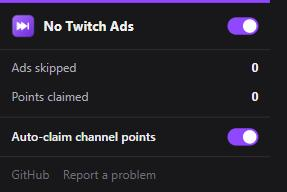
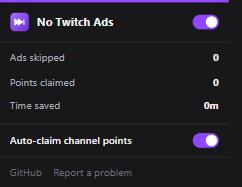
Add leak detection and lifetime stats (v1.0.2)
- Leak detection: the worker checks the final playlist for an ad segment that
  would actually play (a non-",live" segment not blanked), warns in the console
  and counts it, so a future Twitch change can't fail silently. Unit-tested:
  clean and blanked playlists report no leak; a raw ad playlist does.
- Fail-safe playback: if processM3U8 throws, the original playlist is served so
  the stream keeps running instead of hanging.
- Lifetime stats in storage.local (ads skipped, points claimed, time saved,
  blanked/leak counts), shown as three counters in the popup, across tabs.
- No recovery watchdog added: measured live, the player returns to Playing
  about a second after a break ends, so a second watchdog would be redundant.
- Regenerated popup screenshot; README and CHANGELOG updated.

diff --git a/src/page.js b/src/page.js
@@ -355,6 +355,7 @@
       streamInfo.LastPlayerReload = Date.now();
     }
     const haveAdTags = textStr.includes(AdSignifier) || SimulatedAdsDepth > 0;
+    let adLeaked = false;
     if (haveAdTags) {
       streamInfo.IsMidroll = textStr.includes('"MIDROLL"') || textStr.includes('"midroll"');
       if (!streamInfo.IsShowingAd) {
@@ -476,6 +477,15 @@
       if (IsAdStrippingEnabled || stripHevc) {
         textStr = stripAdSegments(textStr, stripHevc, streamInfo);
       }
+      // Leak check: is a real ad segment about to reach the player? A leaked
+      // segment is a non-",live" #EXTINF whose URL was NOT blanked (not in the
+      // ad-segment cache). With a clean backup there are none; when blanking,
+      // all are cached. Anything left means an ad would actually play.
+      adLeaked = hasUnblankedAdSegment(textStr);
+      if (adLeaked && !streamInfo.LeakReported) {
+        streamInfo.LeakReported = true;
+        console.warn("[No Twitch Ads] ad segment leaked to the player on " + streamInfo.ChannelName + " — backups and stripping did not cover this break");
+      }
     } else if (streamInfo.IsShowingAd) {
       console.log("[No Twitch Ads] ad break over");
       const wasStrippingAdSegments = streamInfo.IsStrippingAdSegments;
@@ -483,6 +493,7 @@
       streamInfo.IsStrippingAdSegments = false;
       streamInfo.NumStrippedAdSegments = 0;
       streamInfo.ActiveBackupPlayerType = null;
+      streamInfo.LeakReported = false;
       if (streamInfo.IsUsingModifiedM3U8 || ReloadPlayerAfterAd || wasStrippingAdSegments) {
         streamInfo.IsUsingModifiedM3U8 = false;
         streamInfo.LastPlayerReload = Date.now();
@@ -498,8 +509,22 @@
       isStrippingAdSegments: streamInfo.IsStrippingAdSegments,
       numStrippedAdSegments: streamInfo.NumStrippedAdSegments,
       backupPlayerType: streamInfo.ActiveBackupPlayerType,
+      leaked: adLeaked,
     });
     return textStr;
+  }
+
+  // True if the playlist still contains an ad segment that would actually play:
+  // a non-",live" #EXTINF whose segment URL is not in the blanked-segment cache.
+  function hasUnblankedAdSegment(textStr) {
+    const lines = textStr.replaceAll("\r", "").split("\n");
+    for (let i = 0; i < lines.length - 1; i++) {
+      if (lines[i].startsWith("#EXTINF") && !lines[i].includes(",live")) {
+        const seg = lines[i + 1];
+        if (seg && !seg.startsWith("#") && !AdSegmentCache.has(seg)) return true;
+      }
+    }
+    return false;
   }
 
   function hookWorkerFetch() {
@@ -700,6 +725,7 @@
     replaceServerTimeInM3u8,
     stripAdSegments,
     getStreamUrlForResolution,
+    hasUnblankedAdSegment,
     gqlRequest,
     getAccessToken,
     processM3U8,
@@ -1125,6 +1151,7 @@
       stripping: !!data.isStrippingAdSegments,
       midroll: !!data.isMidroll,
       backup: data.backupPlayerType || null,
+      leaked: !!data.leaked,
       channel: getChannelFromUrl(),
     };
     if (JSON.stringify(status) !== JSON.stringify(lastStatus)) dispatchStatus(status);
@@ -1253,7 +1280,7 @@
     // backup session at that depth (1 = embed, 2 = popout, 3 = 360p). 0 = off.
     simulateAds: (depth) => postTwitchWorkerMessage("SimulateAds", Math.max(0, depth | 0)),
     allSegmentsAreAdSegments: () => postTwitchWorkerMessage("AllSegmentsAreAdSegments"),
-    _internal: { declareOptions, parseAttributes, getServerTimeFromM3u8, replaceServerTimeInM3u8, stripAdSegments, getStreamUrlForResolution, processM3U8, buildWorkerPrelude, getChannelFromUrl },
+    _internal: { declareOptions, parseAttributes, getServerTimeFromM3u8, replaceServerTimeInM3u8, stripAdSegments, getStreamUrlForResolution, hasUnblankedAdSegment, processM3U8, buildWorkerPrelude, getChannelFromUrl },
   };
 
   hookWindowWorker();

diff --git a/src/content.js b/src/content.js
@@ -21,6 +21,40 @@
   let pointsClaimed = 0;
 
   // ---------------------------------------------------------------
+  // Lifetime stats (persisted in storage.local; read by the popup).
+  //   adsSkipped   - ad breaks skipped
+  //   pointsClaimed- channel-point bonuses auto-claimed
+  //   timeSavedMs  - summed break durations (ad time you did not watch)
+  //   blanked      - breaks where every backup had the ad, so segments blanked
+  //   leaks        - breaks where a real ad segment reached the player
+  // ---------------------------------------------------------------
+  const STATS_DEFAULTS = { adsSkipped: 0, pointsClaimed: 0, timeSavedMs: 0, blanked: 0, leaks: 0 };
+  const stats = { ...STATS_DEFAULTS };
+  let statsLoaded = false;
+  let statsSaveTimer = null;
+  let breakStart = 0;
+  let breakWasBlanked = false;
+  let breakWasLeaked = false;
+
+  async function loadStats() {
+    try {
+      const got = await api.storage.local.get({ stats: STATS_DEFAULTS });
+      Object.assign(stats, STATS_DEFAULTS, got.stats || {});
+    } catch (_) {}
+    statsLoaded = true;
+  }
+
+  function saveStatsSoon() {
+    if (statsSaveTimer) return;
+    statsSaveTimer = setTimeout(() => {
+      statsSaveTimer = null;
+      try {
+        api.storage.local.set({ stats });
+      } catch (_) {}
+    }, 1500);
+  }
+
+  // ---------------------------------------------------------------
   // Settings bridge
   // ---------------------------------------------------------------
   function pushSettings(stored) {
@@ -41,6 +75,7 @@
   // and we also push proactively in case it already ran.
   document.addEventListener("nta:request-settings", loadAndPush);
   loadAndPush();
+  loadStats();
 
   api.storage.onChanged.addListener((changes, area) => {
     if (area !== "sync") return;
@@ -57,7 +92,30 @@
     } catch (_) {
       return;
     }
-    if (next.hasAds && !lastStatus.hasAds) breaks++;
+    const rising = next.hasAds && !lastStatus.hasAds;
+    const falling = !next.hasAds && lastStatus.hasAds;
+    if (rising) {
+      breaks++;
+      breakStart = Date.now();
+      breakWasBlanked = false;
+      breakWasLeaked = false;
+      stats.adsSkipped++;
+      saveStatsSoon();
+    }
+    if (next.hasAds) {
+      if (next.stripping) breakWasBlanked = true;
+      if (next.leaked) breakWasLeaked = true;
+    }
+    if (falling) {
+      if (breakStart) {
+        // Cap a single break's contribution so a stuck timer can't inflate it.
+        stats.timeSavedMs += Math.min(Date.now() - breakStart, 5 * 60 * 1000);
+        breakStart = 0;
+      }
+      if (breakWasBlanked) stats.blanked++;
+      if (breakWasLeaked) stats.leaks++;
+      saveStatsSoon();
+    }
     lastStatus = next;
     try {
       api.runtime.sendMessage({ type: "nta:status", ...lastStatus });
@@ -102,6 +160,8 @@
       try {
         button.click();
         pointsClaimed++;
+        stats.pointsClaimed++;
+        saveStatsSoon();
         console.log("[No Twitch Ads] claimed channel points bonus (" + pointsClaimed + " this tab)");
       } catch (_) {}
     }, 600 + Math.floor(Math.random() * 1200));
@@ -129,7 +189,7 @@
   api.runtime.onMessage.addListener((message, sender, sendResponse) => {
     if (!message || message.type !== "nta:get-status") return;
     if (window !== window.top) return; // only the top frame answers
-    sendResponse({ status: lastStatus, channel: channelFromLocation(), breaks, pointsClaimed });
+    sendResponse({ status: lastStatus, channel: channelFromLocation(), breaks, pointsClaimed, stats: statsLoaded ? stats : null });
     return true;
   });
 })();

diff --git a/popup/popup.js b/popup/popup.js
@@ -4,41 +4,44 @@
 (() => {
   const api = typeof browser !== "undefined" ? browser : chrome;
   const DEFAULTS = { enabled: true, autoClaimPoints: true };
+  const STATS_DEFAULTS = { adsSkipped: 0, pointsClaimed: 0, timeSavedMs: 0, blanked: 0, leaks: 0 };
 
   const $ = (id) => document.getElementById(id);
   let settings = { ...DEFAULTS };
 
-  function render(tabInfo) {
+  function fmtDuration(ms) {
+    const mins = Math.round(ms / 60000);
+    if (mins < 60) return mins + "m";
+    const h = Math.floor(mins / 60);
+    const m = mins % 60;
+    return m ? h + "h " + m + "m" : h + "h";
+  }
+
+  function renderToggles() {
     $("enabled").checked = !!settings.enabled;
     $("autoClaimPoints").checked = !!settings.autoClaimPoints;
-    $("breaks").textContent = String((tabInfo && tabInfo.breaks) || 0);
-    $("points").textContent = String((tabInfo && tabInfo.pointsClaimed) || 0);
+  }
+
+  function renderStats(stats) {
+    const s = { ...STATS_DEFAULTS, ...(stats || {}) };
+    $("adsSkipped").textContent = s.adsSkipped.toLocaleString();
+    $("pointsClaimed").textContent = s.pointsClaimed.toLocaleString();
+    $("timeSaved").textContent = fmtDuration(s.timeSavedMs);
   }
 
   async function save(patch) {
     settings = { ...settings, ...patch };
-    render();
+    renderToggles();
     try {
       await api.storage.sync.set(patch);
     } catch (_) {}
   }
 
-  async function queryTab() {
-    let tabs = [];
+  async function refreshStats() {
     try {
-      tabs = await api.tabs.query({ active: true, currentWindow: true });
+      const got = await api.storage.local.get({ stats: STATS_DEFAULTS });
+      renderStats(got.stats);
     } catch (_) {}
-    const tab = tabs[0];
-    if (!tab) return null;
-    try {
-      return await api.tabs.sendMessage(tab.id, { type: "nta:get-status" });
-    } catch (_) {
-      return null; // not a Twitch tab (no content script there)
-    }
-  }
-
-  async function refresh() {
-    render(await queryTab());
   }
 
   async function init() {
@@ -48,12 +51,20 @@
     try {
       settings = { ...DEFAULTS, ...(await api.storage.sync.get(DEFAULTS)) };
     } catch (_) {}
+    renderToggles();
 
     $("enabled").addEventListener("change", (e) => save({ enabled: e.target.checked }));
     $("autoClaimPoints").addEventListener("change", (e) => save({ autoClaimPoints: e.target.checked }));
 
-    await refresh();
-    setInterval(refresh, 1500);
+    // Live-update the stats while the popup is open.
+    try {
+      api.storage.onChanged.addListener((changes, area) => {
+        if (area === "local" && changes.stats) renderStats(changes.stats.newValue);
+      });
+    } catch (_) {}
+
+    await refreshStats();
+    setInterval(refreshStats, 1500);
   }
 
   init();

diff --git a/tools/check.js b/tools/check.js
@@ -196,6 +196,19 @@ test("stripAdSegments marks ad segments, keeps live ones, drops prefetch, neuter
   assert(out.includes("#EXT-X-DISCONTINUITY"), "discontinuity marker must survive");
 });
 
+test("hasUnblankedAdSegment: clean live playlist has no leak", () => {
+  assert.strictEqual(I.hasUnblankedAdSegment(liveMedia), false);
+});
+
+test("hasUnblankedAdSegment: raw ad playlist is a leak until its segments are blanked", () => {
+  // A fresh ad playlist whose ad segments are not yet cached counts as a leak.
+  sandbox.AdSegmentCache.clear();
+  assert.strictEqual(I.hasUnblankedAdSegment(adMedia), true);
+  // After stripping caches the ad segments, the same playlist no longer leaks.
+  I.stripAdSegments(adMedia, false, { NumStrippedAdSegments: 0, IsStrippingAdSegments: false });
+  assert.strictEqual(I.hasUnblankedAdSegment(adMedia), false);
+});
+
 test("processM3U8: unknown playlist passes through", async () => {
   const out = await I.processM3U8("https://nowhere/x.m3u8", adMedia, async () => ({ status: 404 }));
   assert.strictEqual(out, adMedia);

diff --git a/popup/popup.html b/popup/popup.html
@@ -20,11 +20,15 @@
     <div class="stats">
       <div class="row">
         <span class="k">Ads skipped</span>
-        <span class="v" id="breaks">0</span>
+        <span class="v" id="adsSkipped">0</span>
       </div>
       <div class="row">
         <span class="k">Points claimed</span>
-        <span class="v" id="points">0</span>
+        <span class="v" id="pointsClaimed">0</span>
+      </div>
+      <div class="row">
+        <span class="k">Time saved</span>
+        <span class="v" id="timeSaved">0m</span>
       </div>
     </div>
 

diff --git a/README.md b/README.md
@@ -84,9 +84,14 @@ In detail:
    content-classification disclosure ("Intended for certain audiences") are
    hidden, the player keeps running in background tabs, and a stalled player is
    nudged.
-7. **Channel points.** A mutation observer watches for the bonus button that
-   Twitch adds under chat (the `claimable-bonus__icon` element) and clicks it
-   for you, so points accrue while you watch.
+7. **Channel points.** A light poll watches for the bonus button Twitch adds
+   under chat (the `claimable-bonus__icon` element) and clicks it for you, so
+   points accrue while you watch.
+8. **Leak check.** After producing the playlist the player will consume, the
+   worker verifies no ad segment slipped through unblanked. If one ever does it
+   warns in the console and counts it, so a future Twitch change can't fail
+   silently. If processing throws, the original playlist is served so the stream
+   never hangs on a bug.
 
 Everything above was checked against the live site, not just the literature.
 `NOTICE.md` lists what was verified and when.
@@ -142,12 +147,13 @@ you an ad-free session and the extension stays idle.
 
 ## The popup
 
-<p align="center"><img src="assets/popup.png" alt="Popup" width="287"></p>
+<p align="center"><img src="assets/popup.png" alt="Popup" width="280"></p>
 
 Deliberately minimal:
 
 - **Master switch** in the header turns ad skipping on or off.
-- **Ads skipped** and **Points claimed** counters for the current tab.
+- **Lifetime stats**: ads skipped, points claimed, and estimated time saved,
+  persisted across tabs and sessions.
 - **Auto-claim channel points**: clicks the "Claim Bonus" button under chat as
   soon as Twitch shows it, after a short randomised delay. On by default.
 

diff --git a/CHANGELOG.md b/CHANGELOG.md
@@ -4,6 +4,29 @@ All notable changes to this project are documented here. The format follows
 [Keep a Changelog](https://keepachangelog.com/en/1.1.0/) and versions follow
 [Semantic Versioning](https://semver.org/).
 
+## [1.0.2] - 2026-10-01
+
+### Added
+
+- Lifetime stats in the popup: ads skipped, points claimed, and estimated time
+  saved, persisted in `storage.local` and shown across tabs.
+- Leak detection: the worker checks the final playlist for an ad segment that
+  would actually play (a non-`,live` segment that was not blanked), warns in the
+  console, and counts it. Verified by unit tests that a clean playlist and a
+  blanked playlist report no leak while a raw ad playlist does.
+
+### Changed
+
+- Playback is now fail-safe: if playlist processing throws, the original
+  playlist is served so the stream keeps running instead of hanging.
+- Auto-claim uses a light 3 s poll instead of observing Twitch's whole DOM.
+
+### Notes
+
+- No recovery watchdog was added: measured live, the player returns to Playing
+  within about a second of a break ending, so a second watchdog would be
+  redundant and risk double-reloads.
+
 ## [1.0.1] - 2026-10-01
 
 ### Fixed
